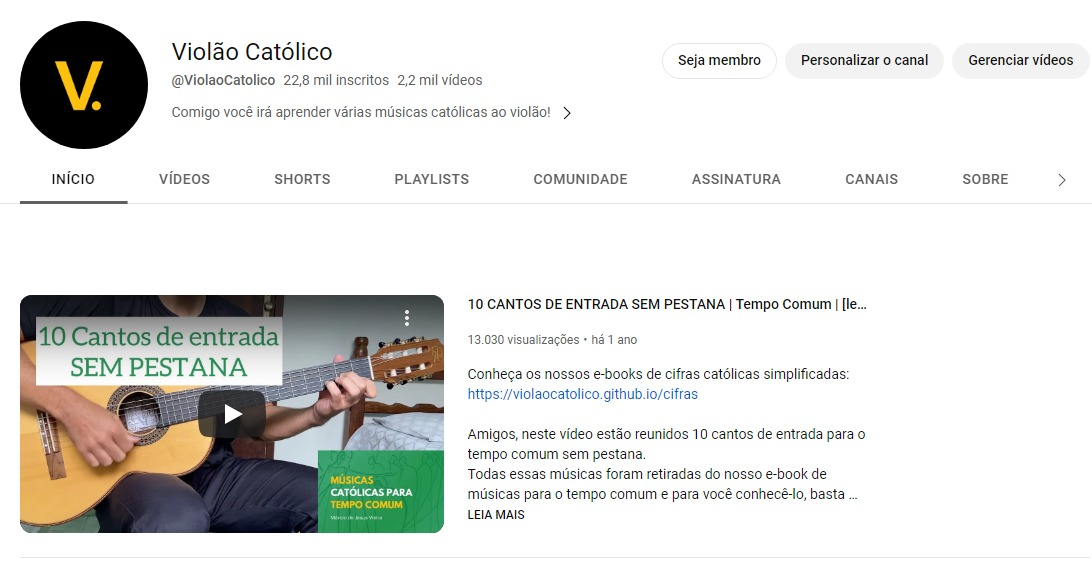
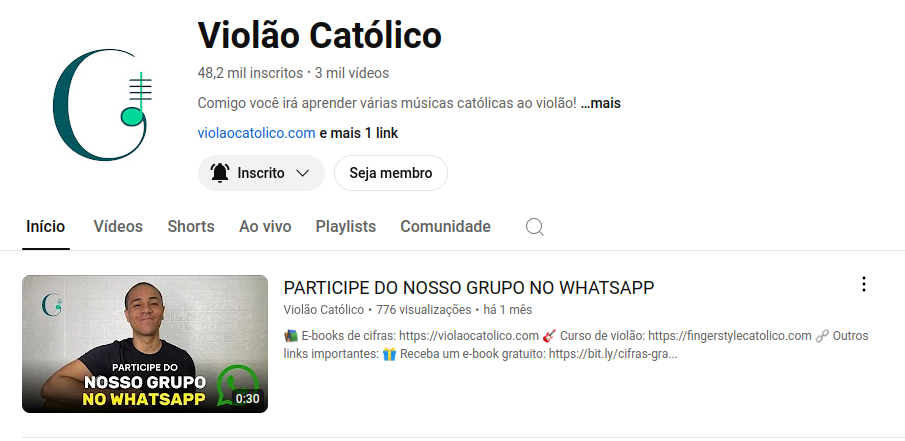
alterações

diff --git a/src/app/sections/Section1.js b/src/app/sections/Section1.js
@@ -17,7 +17,7 @@ const SectionStyle = styled.section`
 
   & .gradientBg {
     width: 100%;
-    height: 90vh;
+    height: 100vh;
     background: ${Colors.dark};
     background: linear-gradient(90deg,#141414 0%,#14141400 50%);
     position: absolute;
@@ -30,6 +30,13 @@ const SectionStyle = styled.section`
 
     @media (max-width: ${Sizes.mediaQueryBreak1}) {
       width: 95%;
+    }
+
+    & .videoContainer {
+      margin-top: 50px;
+      margin-bottom: 50px;
+      display: flex;
+      justify-content: center;
     }
   }
 
@@ -167,23 +174,11 @@ const Section = () => {
         <p className='white moreThan13Ebooks'>São <span className='yellow'>13 e-books!</span> Mais de 500 cifras de todos os tempos litúrgicos na palma da sua mão!</p>
 
 
-        <a href='https://pay.hotmart.com/S63363314B?bid=1649795795717' className='counter'>
-            <h4>Garanta o seu com 50% de desconto</h4>
-            <div className='timeContainer'>
-              <div className='hours'>
-                <p className='number'>{formatTime(hours)}</p>
-                <p className='hoursName'>Horas</p>
-              </div>
-              <div className='hours'>
-                <p className='number'>{formatTime(minutes)}</p>
-                <p className='hoursName'>Minutos</p>
-              </div>
-              <div className='hours'>
-                <p className='number'>{formatTime(seconds)}</p>
-                <p className='hoursName'>Segundos</p>
-              </div>                                                                                                                                                                                                                                                                 
-            </div>
-          </a>
+        {/* Vídeo do youtube no centro */}
+        <div className='videoContainer'>
+          <iframe width="70%" height="500" src="https://www.youtube.com/embed/GNiS6kEaEYk?si=sFXZ2taZRy_3oXvJ&amp;controls=0" title="YouTube video player" frameborder="0" allow="accelerometer; autoplay; clipboard-write; encrypted-media; gyroscope; picture-in-picture; web-share" referrerpolicy="strict-origin-when-cross-origin" allowfullscreen></iframe>
+        </div>
+        
 
       </div>
     </SectionStyle>

diff --git a/src/app/sections/Section4.js b/src/app/sections/Section4.js
@@ -56,8 +56,8 @@ const Section = () => {
     
       <img src='ebook-free.png' alt='Músicas catolicas extras' />
 
-      <RoundedBlackButton target="_blank" href="https://drive.google.com/file/d/1Q37l_Mnks5YjPLEmFYJujVmH7g2_JzQI/view?usp=sharing">
-        Download grátis
+      <RoundedBlackButton target="_blank" href="https://wa.link/1aetwp">
+        Peça grátis
       </RoundedBlackButton>
     </SectionStyle>
   );

diff --git a/src/app/sections/Section5.js b/src/app/sections/Section5.js
@@ -44,6 +44,16 @@ const SectionStyle = styled.section`
         font-size: 2rem;
       }
     }
+
+    .shake > a {
+      @media (min-width: ${Sizes.mediaQueryBreak2}) {
+        width: 100%;
+        display: flex;
+        min-height: 40px;
+        justify-content: center;
+        align-items: center;
+      }
+    }
   }
 
   & .right {

diff --git a/README.md b/README.md
@@ -1,7 +1,8 @@
-# Melhorias
+# Afazeres
 
-- Itens da sessão "Vantagens" se parecem com botões porém só o último item é um botão, transformar em lista e colocar o último botão mais chamativo.
-
-
-- Google: React SEO
-- React navigation/router
+Ok - tirar o cronometro e colocar o vídeo
+Ok - trocar a imagem do e-book
+Ok - aumentar o botão “eu quero” no computador
+Ok - trocar a imagem do print do canal
+Ok - trocar a palavra “baixe” por “peça” no e-book gratuito
+Ok - trocar o link do e-book gratuito
